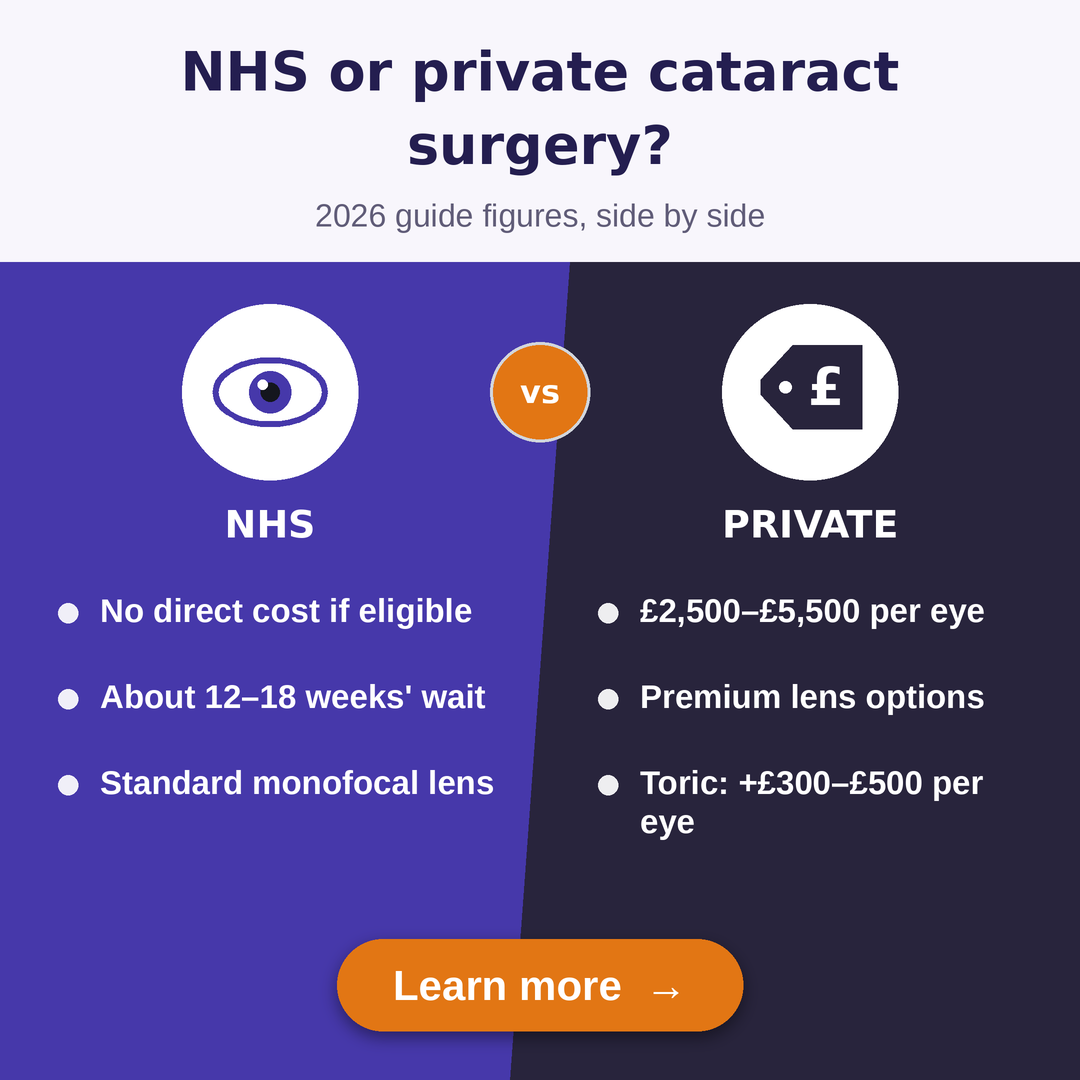
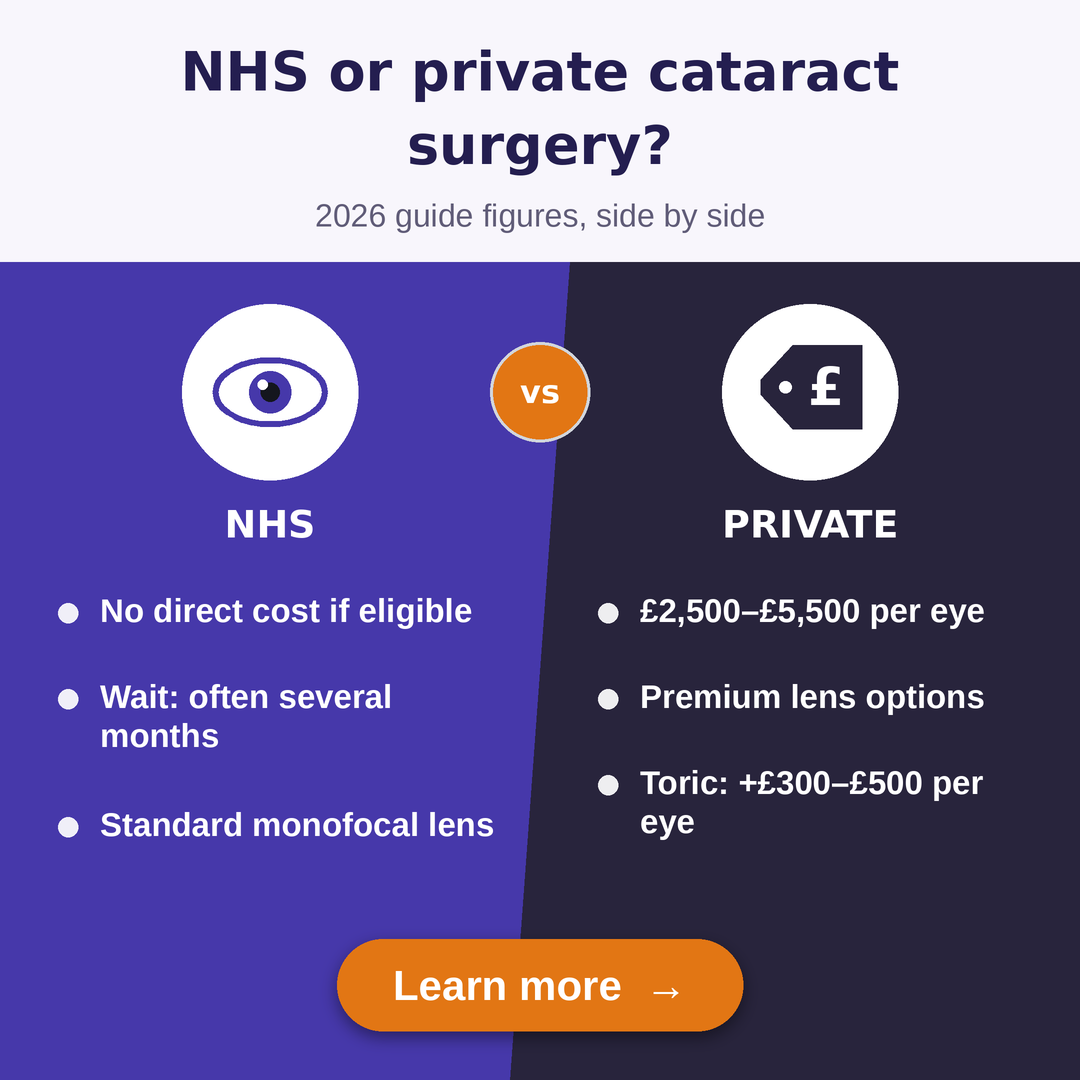
packs: волна 2 — статьи новых тестов (пары FR, психология ES, дома престарелых PT, стипендии ES, мебель ES)
Claude-Session: https://claude.ai/code/session_01C37NqGH9zFdyb8ik1XzQDR

Changed region(s): [[0.0306, 0.6111, 0.4583, 0.7944]]

diff --git a/creatives/ready/2026-09-30_packs/src/p60w2_packs.py b/creatives/ready/2026-09-30_packs/src/p60w2_packs.py
@@ -64,8 +64,8 @@ PACKS[2] = dict(
            pal=dict(bg=(46, 110, 60), bg2=(24, 64, 36), ink=WH, sub=(214, 234, 214), acc=GREEN2, t2=(255, 214, 102), deco=True),
            note="ценовой квиз; верный ответ $7–12 за порцию — ориентир 2026 из гипотезы и статьи, остальное — варианты-отвлекалки"),
     c=dict(layout="split", title="Fresh or frozen meal delivery?", sub="Senior meals: about $7–$12 each (US guide, 2026)", size=54,
-           cols=[("FRESH", "meal_plate", GREEN2, ["Delivered on a schedule", "Just reheat and eat", "Shorter shelf life"]),
-                 ("FROZEN", "snowflake", BLUE2, ["Longer shelf life", "Eat when it suits", "A little less fresh"])],
+           cols=[("FRESH", "meal_plate", GREEN2, ["1–2 deliveries a week", "Just reheat and eat", "Eaten within a few days"]),
+                 ("FROZEN", "snowflake", BLUE2, ["Keeps for weeks or months", "Eat when it suits", "A little less fresh"])],
            pal=dict(bg=(248, 245, 236)), note="две половины: свежие против замороженных (свойства из статьи), $7–12 за порцию — из гипотезы"),
     d=dict(style="top", scene="w2_doorstep_meals", kicker="MEAL DELIVERY FOR SENIORS 2026",
            title="Ready-made meals at the door: what one really costs", sub="Fresh or frozen, special diets, Meals on Wheels",
@@ -92,10 +92,10 @@ PACKS[3] = dict(
     c=dict(layout="stacked", title="Will or power of attorney?", sub="Two documents, two very different jobs", size=56,
            cols=[("LAST WILL", "doc_sign", BURG, WH, INK3, ["takes effect after death", "names an executor", "can name a guardian for children"]),
                  ("POWER OF ATTORNEY", "doc_coin", NAVY3, NAVY3, WH, ["works during a lifetime", "names an agent to act", "financial or healthcare"])],
-           foot="The difference many families learn too late", pal=dict(acc=BURG, hl=(255, 220, 120)),
+           foot="Every power of attorney ends at death", pal=dict(acc=BURG, hl=(255, 220, 120)),
            note="две карточки друг над другом: завещание / доверенность"),
-    d=dict(style="card", scene="w2_will_desk", card_box=(90, 60, 990, 500), kicker="WILLS & POWER OF ATTORNEY 2026",
-           title="The 2 documents many families put off for years", sub="What a will and a POA actually do", size=60,
+    d=dict(style="card", scene="w2_will_desk", card_box=(90, 60, 990, 500), kicker="WILLS, TRUSTS & POWER OF ATTORNEY 2026",
+           title="Online will service or lawyer?", sub="What each document does – in plain English", size=64,
            pal=dict(frame=BURG, ink=INK3, sub=(96, 90, 100), acc=BURG, btn=NAVY3),
            note="стол сверху: лист LAST WILL AND TESTAMENT с подписью, перьевая ручка, очки, ключи, конверт; карточка в рамке"),
 )
@@ -146,10 +146,10 @@ PACKS[5] = dict(
            note="форма-калькулятор со степпером; цены на карточке нет (главный 29.09: только $20–60/мес с пометкой «2026 guide»)"),
     c=dict(layout="bars", title="What does a medical alert system cost?", sub="Typical monthly prices – 2026 US guide", size=54,
            bill="MONTHLY BILL", bill_r="2026",
-           bars=[("Monitoring plan", 0.8, "$20–$60", NAVY5), ("Fall detection add-on", None, "extra per month", TEAL5),
+           bars=[("Monitoring plan", 0.8, "$20–$60", NAVY5), ("Fall detection add-on", 0.36, "+$8–$12", TEAL5),
                  ("Equipment or activation fee", None, "$0 or a one-time fee", AMB5)],
-           foot="Many plans are month-to-month", pal=dict(acc=NAVY5),
-           note="«счёт за месяц»: $20–60 абонплата (ориентир 2026 из гипотезы); fall detection и сбор за устройство — «?»"),
+           foot="Paying yearly can lower the monthly rate", pal=dict(acc=NAVY5),
+           note="«счёт за месяц»: $20–60 абонплата и +$8–12 fall detection — ориентир 2026 из гипотезы и статьи (пометка «2026 US guide»); сбор за устройство — «$0 или разовый»"),
     d=dict(style="left", scene="w2_nightstand_alert", y=60, x=70,
            bars=[("MEDICAL ALERT", WH, RED5), ("SYSTEMS 2026:", WH, RED5), ("WHAT DOES 24/7", NAVY5, None), ("MONITORING COST?", NAVY5, None)],
            bar_size=96, cond=0.8, btn_y=575, btn_size=44, max_w=640, pal=dict(btn=TEAL5),
@@ -173,10 +173,10 @@ PACKS[6] = dict(
            pal=dict(bg=(60, 46, 150), bg2=(30, 22, 90), ink=WH, sub=(220, 216, 246), acc=IND, t2=INK6, hl=YEL6, deco=True),
            note="вопрос про линзу и очки, не про зрение зрителя (ответ в статье: да, для чтения)"),
     c=dict(layout="split", title="NHS or private cataract surgery?", sub="2026 guide figures, side by side", size=54, diag=30,
-           cols=[("NHS", "eye", IND, ["No direct cost if eligible", "About 12–18 weeks' wait", "Standard monofocal lens"]),
+           cols=[("NHS", "eye", IND, ["No direct cost if eligible", "Wait: often several months", "Standard monofocal lens"]),
                  ("PRIVATE", "pound_tag", (40, 36, 60), ["£2,500–£5,500 per eye", "Premium lens options", "Toric: +£300–£500 per eye"])],
            pal=dict(bg=(248, 246, 252), ink=INK6, btn=AMB6, vs_bg=AMB6, vs_ink=WH),
-           note="диагональный сплит NHS / частно; цифры — из sourceNote (SpaMedica, Optegra, TreatCompare 2026); без «до/после»"),
+           note="диагональный сплит NHS / частно; £2,500–5,500 и toric +£300–500 — из гипотезы и статьи (пометка «2026 guide»); без «до/после»"),
     d=dict(style="top", scene="w2_optician_wall", kicker="CATARACT SURGERY 2026",
            title="No cost on the NHS – so why budget for new glasses?", sub="What's included, what isn't, and the private price per eye",
            size=56, btn_y=1000, pal=dict(ink=INK6, sub=(90, 86, 116), acc=IND),
@@ -191,7 +191,7 @@ PACKS[7] = dict(
              icon=GREEN7, iconbg=(224, 240, 226)),
     a=dict(layout="list4", title="Knee pain after 60: the options explained", sub="Pick one to see how it works (2026 guide)", size=58,
            hero=A.hero_park, hero_h=290,
-           tiles=[("stretch", "Physiotherapy"), ("syringe", "Steroid injections"), ("hot_pack", "Heat, cold & TENS"),
+           tiles=[("stretch", "Physiotherapy"), ("syringe", "Steroid injections"), ("hot_pack", "Heat & cold packs"),
                   ("pound_tag", "Private knee replacement cost")],
            note="парк со скамейкой и кроссовками, 4 строки-варианта под статью «Knee Pain Relief After 60…» (без обещаний результата; цены на картинке нет)"),
     b=dict(layout="phone", title="Steroid joint injections:", title2="how long does relief last?", sub="A 3-question check", size=54,
@@ -202,13 +202,13 @@ PACKS[7] = dict(
            note="вопрос о методе лечения, не о состоянии зрителя (ответ в статье: от нескольких недель до пары месяцев)"),
     c=dict(layout="stacked", title="Steroid injection or physiotherapy?", sub="Two NHS options that do very different jobs", size=52,
            cols=[("STEROID INJECTION", "syringe", ORG7, WH, INK7,
-                  ["can reduce inflammation fairly quickly", "relief: weeks to a couple of months", "used alongside other approaches"]),
+                  ["for a bad flare-up", "relief: weeks to a couple of months", "not a long-term answer"]),
                  ("PHYSIOTHERAPY", "stretch", GREEN7, GREEN7, WH,
-                  ["a tailored exercise plan", "builds supporting muscle strength", "a long-term approach"])],
+                  ["strengthening exercises", "planned by a physiotherapist", "done a few times a week"])],
            foot="Why a GP check usually comes first", pal=dict(acc=ORG7, hl=(255, 222, 120)),
            note="две карточки: инъекция / физиотерапия (формулировки статьи, без «вылечит»)"),
     d=dict(style="card", scene="w2_park_walk", card_box=(90, 60, 990, 500), kicker="KNEE & JOINT PAIN · 2026 GUIDE",
-           title="The NHS options many people never ask about", sub="Physio, injections, TENS – what each one does", size=60,
+           title="The NHS options many people never ask about", sub="Physio, injections, knee replacement – what each does", size=60,
            pal=dict(frame=GREEN7, ink=INK7, sub=(86, 100, 90), acc=GREEN7, btn=ORG7),
            note="парк: пожилая пара гуляет по тропинке (без лиц), скамейка; карточка в рамке; без «до/после»"),
 )
@@ -229,11 +229,11 @@ PACKS[8] = dict(
            opts=["Always cheaper", "Always dearer", "Depends on the insurer", "Not sure"],
            pal=dict(bg=(20, 50, 110), bg2=(10, 26, 64), ink=WH, sub=(206, 216, 240), acc=BLUE8, t2=(255, 210, 80), deco=True),
            note="вопрос о рынке, не о зрителе (ответ в статье: зависит от страховщика)"),
-    c=dict(layout="twocol", title="Specialist or mainstream insurer?", sub="Car insurance for over-60s: which is cheaper?", size=54,
+    c=dict(layout="twocol", title="Specialist or mainstream insurer?", sub="Car insurance for drivers over 60 and over 70", size=54,
            cols=[("SPECIALIST", "car_shield", BLUE8), ("MAINSTREAM", "car", (96, 104, 120))],
            rows=[("MADE FOR", "older drivers", "all drivers"), ("EXTRAS", "low-mileage, agreed value", "standard cover"), ("PRICE", "?", "?")],
-           foot="It's rarely the one people assume",
-           note="специализированный против обычного страховщика; цен в гипотезе нет — «?»"),
+           foot="Why specialists can be more flexible after 75",
+           note="специализированный против обычного страховщика; цен в гипотезе нет — «?»; «гибче после 75» — из статьи"),
     d=dict(style="bars", scene="w2_driveway", y=56,
            bars=[("CAR INSURANCE OVER 60:", WH, RED8), ("THE RENEWAL MISTAKE", INK8, None), ("THAT COSTS MONEY", INK8, None)],
            bar_size=82, cond=0.8, btn_y=420, btn_size=48, pal=dict(btn=GREEN8),
